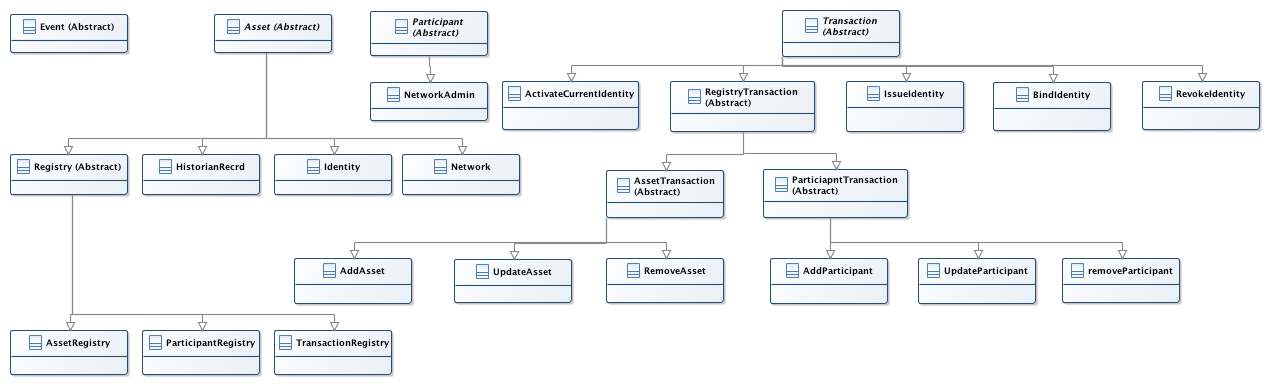
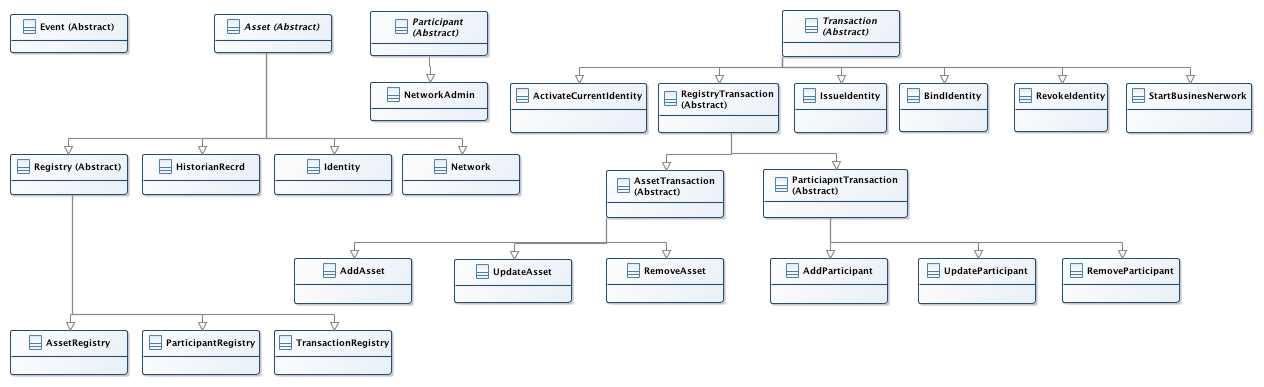
progress 2

diff --git a/docs/Operations/deploy.md b/docs/Operations/deploy.md
@@ -97,13 +97,31 @@ The command also provides control over
 - binding initial identities to participants to provide access to the business network
 
 #### Endorsement policy
-TBD
+The start command and the upgrade command is where you declare your endorsement policy. The format of the endorsement policy is dictated by the fabric node-sdk. It isn't owned by Hyperledger composer, a link to some form of documentation is [here](https://fabric-sdk-node.github.io/global.html#ChaincodeInstantiateUpgradeRequest)
+
+Rather than re-iterate the Composer documentation about how to specify an endorsement policy on the start command see [here](
+https://hyperledger.github.io/composer/latest/managing/connector-information#hyperledger-fabric-endorsement-policies)
+
+
 #### identity binding
-TBD
+When you start your business network for the first time, you MUST have at least 1 participant defined which has been bound to an identity. The start command provides this ability and can also create multiple bound participants. You do this using the `-A` combined with the `-S` or `-C` options on the command line. In this instance the Participant type used by the start command is the inbuilt one `NetworkAdmin`. The definition of NetworkAdmin 
+
+The value for `-A` is used to define `participantId` that the NetworkAdmin participant, and will be stored as the username in the created business network card. 
+
+If you specify `-S` then the secret is stored in the business network card and that card will need to enroll using the username and secret in the card to get it's private key and certificate. Therefore the name you specify on the -A must have been registered with the Fabric CA Server previously. This is the way most of the composer documentation and the single org tutorial demonstrate. The identity is registered in the composer runtime as `ISSUED` as described in [The Hyperledger Composer Security Model](./idsandparts.md) section and will need to be activated. **Remember that cards with just secrets in are single use only, you should only import it into one card store, ping it and delete the original card file.**
+
+If you specify `-C` then that identity is registered in the composer runtime as `BOUND` as described in [The Hyperledger Composer Security Model](./idsandparts.md) section and will need to be activated. The certificate is stored in the business network card, however unless you are using a HSM to manage your private keys, this means that the created business network card is actually not valid. There is no way to also include the private key, so the best thing to do is delete the card and use `composer card create` to create the card yourself.
+
+As mentioned you can perform multiple bindings on a single start request, eg
+```
+composer network start -n my-busnet -V 0.0.1 -c admin@fabric -A admin@org1 -C certorg1.pem -A admin@org2 -C certorg2.pem
+```
+
+I would not recommend the `-S` option when working with production fabric networks. It's a nice convenient option when doing development say on a single org fabric. In the above example for example you want to bind identities from 2 different organisations so the -S option would not work as they are unlikely to be registered to the same fabric ca server, more likely they will have registered to their own fabric ca server or even a 3rd party CA.
 
 
 ## Using the Peer Commands
-TBD (needs research to see how this would be possible)
+TBD (needs research to see how this would be possible, install should be but start will be a problem due to the need to perform a startBusinessNetwork transaction which get's passed as an argument to the start fabric request)
 
 
 ### [Next - Upgrading Business Networks](./upgrade.md)

diff --git a/docs/Operations/acls.md b/docs/Operations/acls.md
@@ -206,6 +206,6 @@ rule NetworkAdminParticipantAccess {
 }
 ```
 
-Ideally it would be good if IssueIdentity, BindIdentity, RevokeIdentity all inherited from an IdentityTransaction, then we could collapse 3 rules into 1 and also include ActivateCurrentIdentity as well, but unfortunately that isn't how the system model is designed currently.
+Ideally it would be have been good if IssueIdentity, BindIdentity, RevokeIdentity all inherited from an IdentityTransaction, then we could collapse 3 rules into 1 and also include ActivateCurrentIdentity as well, but unfortunately that isn't how the system model is designed currently.
 
 ### [Next - Cloud Wallets](./cloud-wallets.md)

diff --git a/docs/Operations/idsandparts.md b/docs/Operations/idsandparts.md
@@ -54,7 +54,7 @@ Error: The current identity, with the name 'admin' and the identifier 'ea173e6aa
 ```
 Even if the certificate has the same `name`, the public key of that certificate did not match the one that has been registered and so they are not the same identity.
 
-## Identity State
+## Identity State and Activation
 TBD
 
 ### [Next - Connection Profiles](./connectionprofiles.md)

diff --git a/docs/Operations/upgrade.md b/docs/Operations/upgrade.md
@@ -3,6 +3,10 @@
 ### [Back - Deploying Business Networks](./deploy.md)
 
 
+# Upgrading business networks
+
+
+
 - include info about endorsement policies
 - must install chaincode first
 - can upgrade to any installed chaincode even if it is a previous version

diff --git a/docs/Operations/TOC.md b/docs/Operations/TOC.md
@@ -20,7 +20,6 @@
 
 - Things that need to be included
   - Misc
-     - Need to note about identity activation
      - client version mismatch with runtime version
      - version migration ????
      - commands that create cards for you and the issues there
